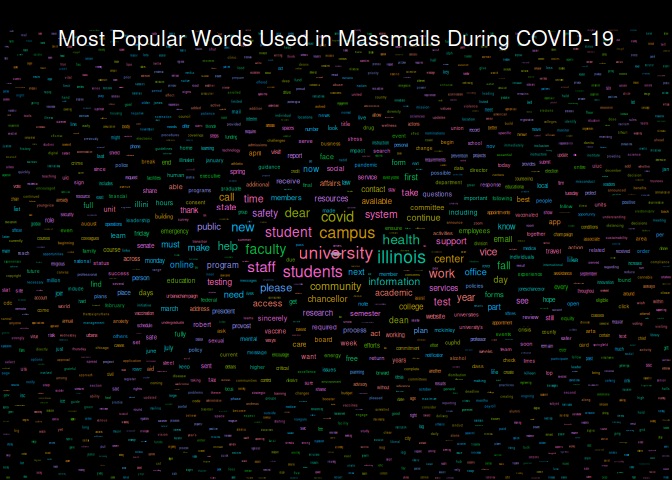
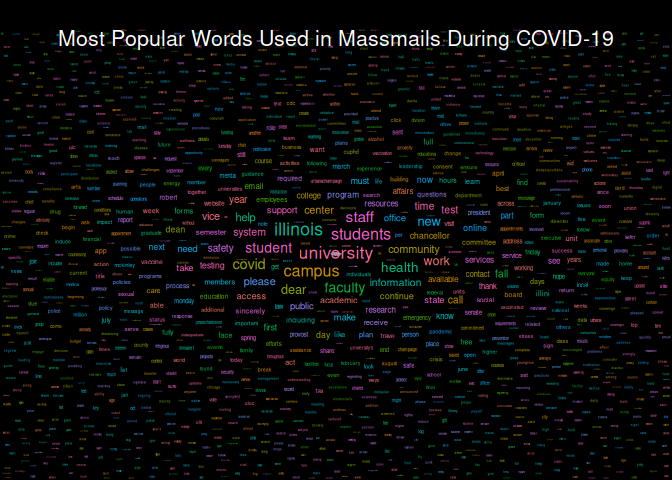
Re-build README.Rmd and Graphs

Changed region(s): [[0.0, 0.0625, 1.0, 1.0]]

diff --git a/README.md b/README.md
@@ -18,7 +18,7 @@ The archive may be viewed here:
 
 <https://massmail.illinois.edu/massmailArchive>
 
-Data has **1996** observations and **7** variables:
+Data has **1997** observations and **7** variables:
 
 - `datetime`: Date and time when the email was sent, as an ISO 8601
   timestamp carrying the Urbana-Champaign offset,
@@ -221,13 +221,13 @@ head(most_popular_words, 10) %>%
 | university  | 2761 |
 | students    | 2237 |
 | campus      | 1960 |
-| illinois    | 1945 |
-| student     | 1430 |
-| faculty     | 1276 |
-| health      | 1187 |
+| illinois    | 1946 |
+| student     | 1431 |
+| faculty     | 1277 |
+| health      | 1188 |
 | community   | 1177 |
-| information | 1146 |
-| staff       | 1117 |
+| information | 1148 |
+| staff       | 1118 |
 
 #### Wordcloud
 
